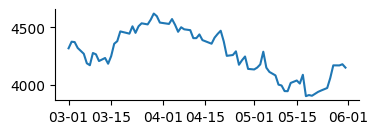
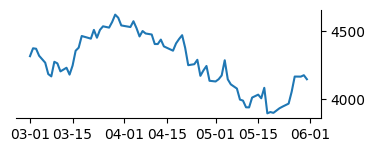
update fig size and location

diff --git a/zc_matplotlib.py b/zc_matplotlib.py
@@ -20,20 +20,23 @@ def create_plot(df, FNAME):
     # create fig, ax
     # by default set in inches...
     # but fpdf is in mm
-    fig, ax = plt.subplots(figsize=(3.93701, 1.1811))
+    fig, ax = plt.subplots(figsize=(3.93701, 1.1811*1.2))
 
     # plot data
     ax.plot(df['ts_event'], df['close'])
 
     # -- STYLE --
     # remove right and top spines
-    ax.spines[['right', 'top']].set_visible(False)
+    ax.spines[['left', 'top']].set_visible(False)
+
+    # set ticks right side
+    ax.yaxis.tick_right()
 
     # format x axis dates
     date_form = DateFormatter("%m-%d")
     ax.xaxis.set_major_formatter(date_form)
 
-    plt.savefig(FNAME, bbox_inches='tight')
+    plt.savefig(FNAME, bbox_inches='tight', transparent=True)
     # plt.show()
 
 def main():

diff --git a/app.py b/app.py
@@ -69,8 +69,8 @@ def main():
               xpos_end=100, ypos_end=22)
     
     # add chart
-    # pdf.image('static/chart.png', x=190, y=8,
-    # h=30, w=100)
+    pdf.image('static/chart.png', x=208, y=9,
+    h=35, w=85)
 
     # output file
     pdf.output('static/app.pdf')
